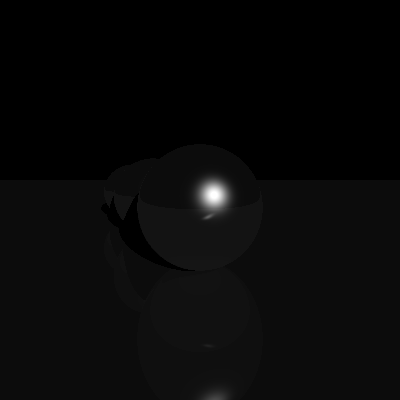
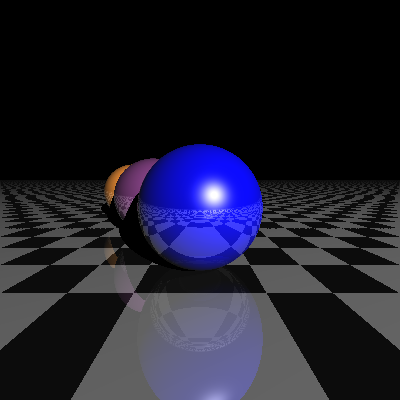
fix filenames

diff --git a/raytrace.py b/raytrace.py
@@ -115,10 +115,12 @@ def add_plano(position, normal):
     
 # Lista de objetos
 color_plane0 = 1. * np.ones(3)
-color_plane1 = 0. * np.ones(3)
-scene = [add_esfera([.0, .1, 1.], .6, [0., 0., 1.]),
-         add_esfera([-.75, .1, 2.25], .6, [.5, .223, .5]),
-         add_esfera([-1.5, .1, 3.5], .6, [1., .572, .184]),
+color_plane1 = 1. * np.ones(3)
+scene = [add_esfera([.0, .1, 1.], .2, [0., 0., 1.]),
+         add_esfera([-.75, .1, 2.25], .4, [.5, .223, .5]),
+         add_esfera([-1.5, .1, 1.], .6, [1., .572, .184]),
+         add_esfera([0.75, .1, 1.], .8, [0.5, .863, .184]),
+         add_esfera([1.5, 3, 3.], 1.0, [0.321, 0., .864]),
          add_plano([0., -.5, 0.], [0., 1., 0.]),
     ]
 
@@ -170,4 +172,4 @@ for i, x in enumerate(np.linspace(S[0], S[2], w)):
             reflection *= obj.get('reflection', 1.)
         img[h - j - 1, i, :] = np.clip(col, 0, 1)
 
-plt.imsave('raytracing.png', img)
+plt.imsave('raytracing2.png', img)
